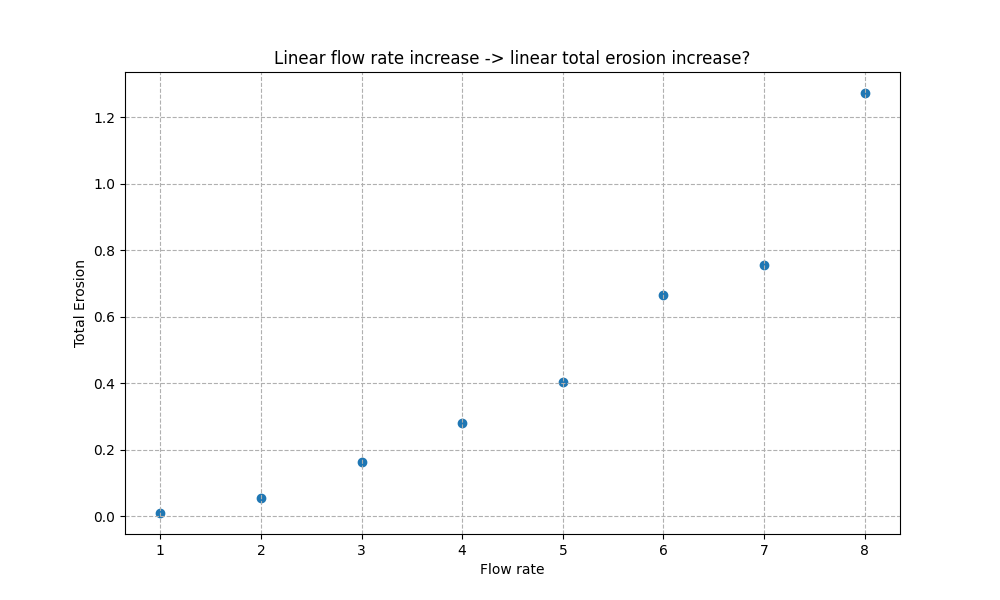
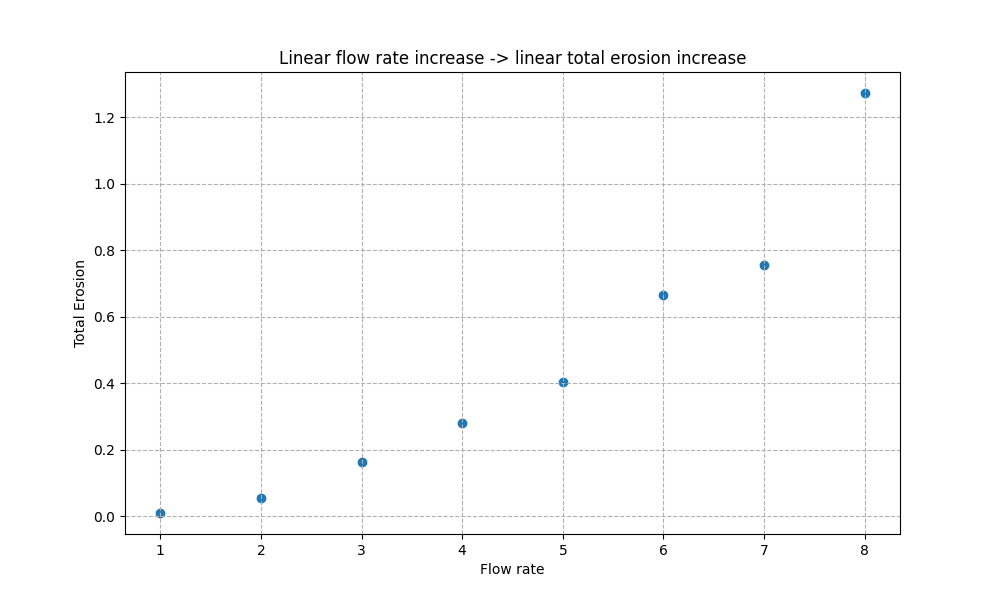
more plots, slope is added and comp slope erosion rate

Changed region(s): [[0.279, 0.09, 0.744, 0.12]]

diff --git a/src/exp_slope.py b/src/exp_slope.py
@@ -1,0 +1,68 @@
+from CA import *
+from initial_state_generation import generate_initial_slope
+import matplotlib.pyplot as plt
+import numpy as np 
+
+GROUND_HEIGHT = 0
+WATER_HEIGHT = 1
+
+def simulation(seed, erosion_rate, flow_rate, slope=101*.1):
+    """ Runs simulation of system for certain initial conditions. """
+    np.random.seed(seed)
+    width, height = 21, 101
+    initial_state = generate_initial_slope(height, width, slope, noise_amplitude = 0.1, noise_type = 'white')
+    ca = CA(width, height, initial_state, neighbor_list=BOTTOM_NEIGHBORS)
+    grids = ca.run_experiment(100, erosion_rate, flow_rate)
+
+    erosion_per_iteration = []
+    previous_ground = grids[0][:, :, 0]
+    # Each loop is one iteration of the simulation
+    for i in range(1, len(grids)):
+        current_ground = grids[i][:, :, 0]
+        
+        difference = current_ground - previous_ground
+        erosion_per_iteration.append(float(np.sum(np.abs(difference[difference < 0]))))  # Cells where ground height is lowered in the iteration
+
+        previous_ground = current_ground
+    return erosion_per_iteration
+
+if __name__ == "__main__":
+    """
+    First plot: Compares the total erosion over time for different intitial flow rates.
+    Second plot: Shows total final erosion for linearly different initial flow rates.
+    """
+    plt.figure(figsize=(10, 6))
+
+    total_erosion = []
+    flow_rate = 1
+    k = 0.1
+    slope = np.arange(101*0.1, 101*0.15, 0.5)
+    print(slope)
+
+    for i in slope:
+        i = np.round(i, 1)
+        erosion_per_iteration = simulation(42, k, flow_rate, i)
+        print(i)
+        total_erosion.append(erosion_per_iteration[-1])
+        plt.plot(range(1, len(erosion_per_iteration) + 1), erosion_per_iteration, label=f'flow rate={i}')
+
+    plt.xlabel('Nr of iterations')
+    plt.ylabel('Total Erosion')
+    plt.title('Erosion over time vor various slopes')
+    plt.grid(True, linestyle='--')
+    plt.legend()
+    plt.savefig('../data/exp_slope.png')
+
+    plt.figure(figsize=(10, 6))
+    plt.scatter(slope, total_erosion, marker='o')
+    plt.xlabel('slope')
+    plt.ylabel('Total Erosion')
+    plt.title('Linear slope increase -> linear total erosion decrease')
+    plt.grid(True, linestyle='--')
+    plt.savefig('../data/exp_slope2.png')
+    plt.show()
+
+
+
+
+    

diff --git a/src/exp_incr_slope_incr_eros.py b/src/exp_incr_slope_incr_eros.py
@@ -33,30 +33,31 @@ if __name__ == "__main__":
     plt.figure(figsize=(10, 6))
 
     total_erosion = []
-    flow_rate = np.arange(2, 9, 1)
-    k = 1 / flow_rate
-    k = k
-    print(flow_rate)
+    flow_rate = 1
+    slope = np.arange(101*0.1, 101*0.15, 0.5)
+    k = 1 / slope
+    k = np.round(k, 3)
+    print(slope)
     print(k)
 
-    for i in range(len(flow_rate)):
-        erosion_per_iteration = simulation(42, k[i], flow_rate[i])
+    for i in range(len(slope)):
+        erosion_per_iteration = simulation(42, k[i], flow_rate, slope[i])
         print(i)
         total_erosion.append(erosion_per_iteration[-1])
 
     # Create combined labels for x-axis
-    labels = [f"k: {k_val:.2f}, flow_rate: {flow_rate_val}" for k_val, flow_rate_val in zip(k, flow_rate)]
+    labels = [f"k: {k_val:.2f}, slope: {np.round(slope_val, 3)}" for k_val, slope_val in zip(k, slope)]
 
     # Plot data
     plt.figure(figsize=(10, 6))
-    plt.scatter(range(len(flow_rate)), total_erosion, marker='o')  # Use indices for x-values
-    plt.xticks(ticks=range(len(flow_rate)), labels=labels, rotation=45, ha='right')  # Add combined labels
-    plt.xlabel('k and Flow rate')
+    plt.scatter(range(len(slope)), total_erosion, marker='o')  # Use indices for x-values
+    plt.xticks(ticks=range(len(slope)), labels=labels, rotation=45, ha='right')  # Add combined labels
+    plt.xlabel('k and slope')
     plt.ylabel('Total Erosion')
-    plt.title('Linear flow increase, linear erosion rate decrease-> ?')
+    plt.title('Linear slope increase, linear erosion rate increase -> ?')
     plt.grid(True, linestyle='--')
     plt.tight_layout()  # Adjust layout to fit rotated labels
-    plt.savefig('../data/exp_incr_flow_decr_eros.png')
+    plt.savefig('../data/exp_incr_slope_incr_eros.png')
     plt.show()
 
 

diff --git a/src/exp_flow_rate.py b/src/exp_flow_rate.py
@@ -6,11 +6,11 @@ import numpy as np
 GROUND_HEIGHT = 0
 WATER_HEIGHT = 1
 
-def simulation(seed, erosion_rate, flow_rate):
+def simulation(seed, erosion_rate, flow_rate, slope=101*0.1):
     """ Runs simulation of system for certain initial conditions. """
     np.random.seed(seed)
-    width, height, ground_height = 21, 101, 101*.1
-    initial_state = generate_initial_slope(height, width, ground_height, noise_amplitude = 0.1, noise_type = 'white')
+    width, height = 21, 101
+    initial_state = generate_initial_slope(height, width, slope, noise_amplitude = 0.1, noise_type = 'white')
     ca = CA(width, height, initial_state, neighbor_list=BOTTOM_NEIGHBORS)
     grids = ca.run_experiment(100, erosion_rate, flow_rate)
 
@@ -54,7 +54,7 @@ if __name__ == "__main__":
     plt.scatter(flow_rate, total_erosion, marker='o')
     plt.xlabel('Flow rate')
     plt.ylabel('Total Erosion')
-    plt.title('Linear flow rate increase -> linear total erosion increase?')
+    plt.title('Linear flow rate increase -> linear total erosion increase')
     plt.grid(True, linestyle='--')
     plt.savefig('../data/exp_flow_rate2.png')
     plt.show()

diff --git a/src/exp_erosion_rate.py b/src/exp_erosion_rate.py
@@ -6,11 +6,11 @@ import numpy as np
 GROUND_HEIGHT = 0
 WATER_HEIGHT = 1
 
-def simulation(seed, erosion_rate, flow_rate):
+def simulation(seed, erosion_rate, flow_rate, slope=101*0.1):
     """ Runs simulation of system for certain initial conditions. """
     np.random.seed(seed)
-    width, height, ground_height = 21, 101, 101*.1
-    initial_state = generate_initial_slope(height, width, ground_height, noise_amplitude = 0.1, noise_type = 'white')
+    width, height = 21, 101
+    initial_state = generate_initial_slope(height, width, slope, noise_amplitude = 0.1, noise_type = 'white')
     ca = CA(width, height, initial_state, neighbor_list=BOTTOM_NEIGHBORS)
     grids = ca.run_experiment(100, erosion_rate, flow_rate)
 
